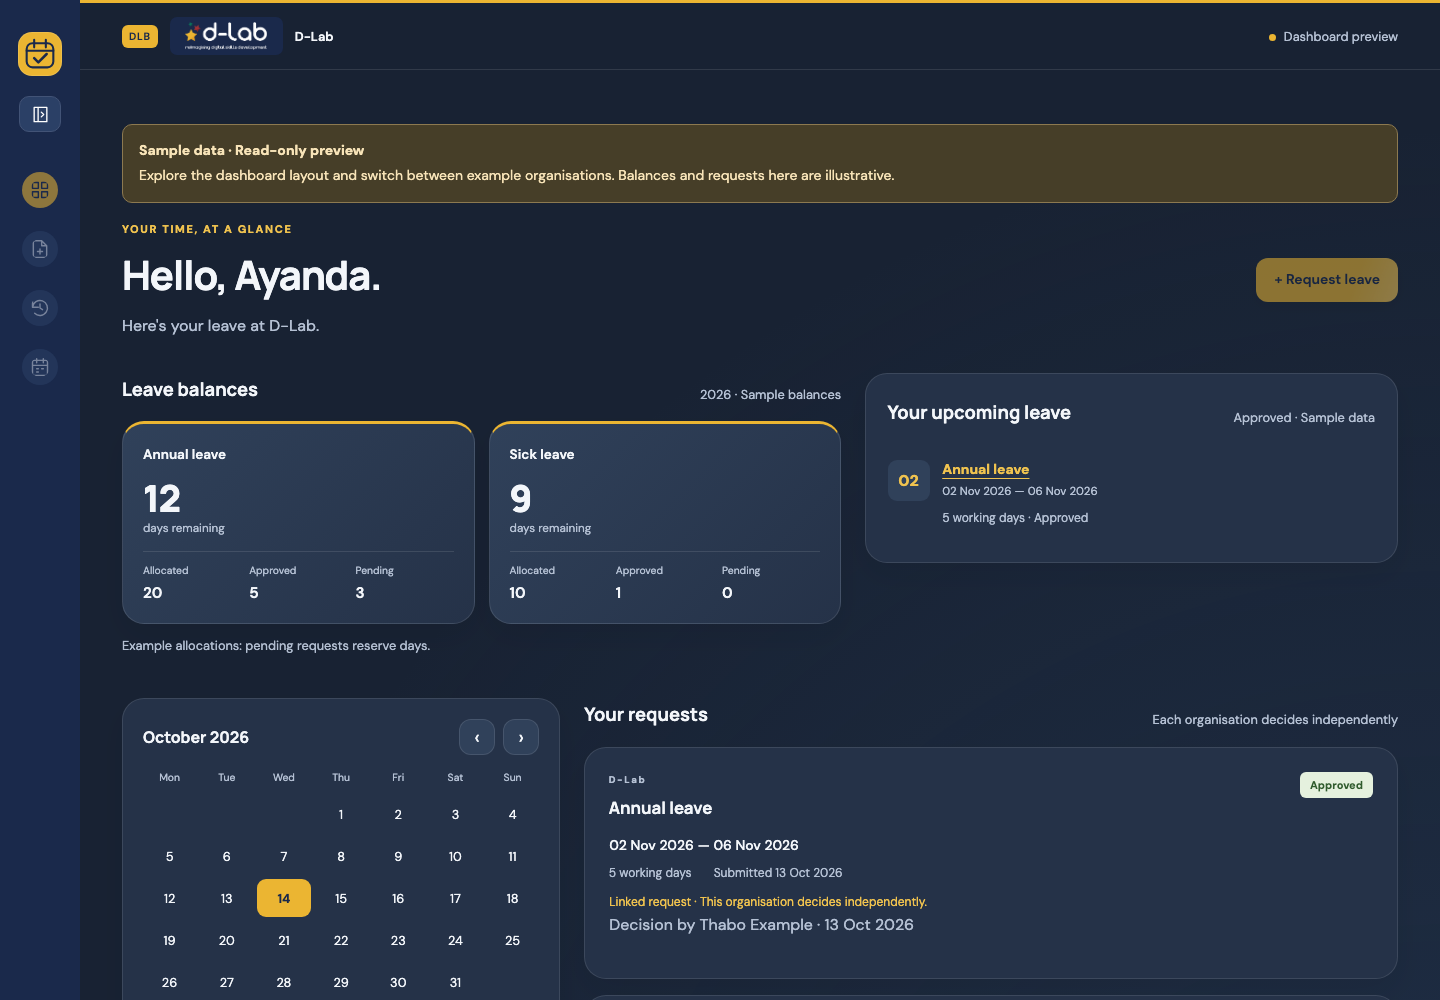
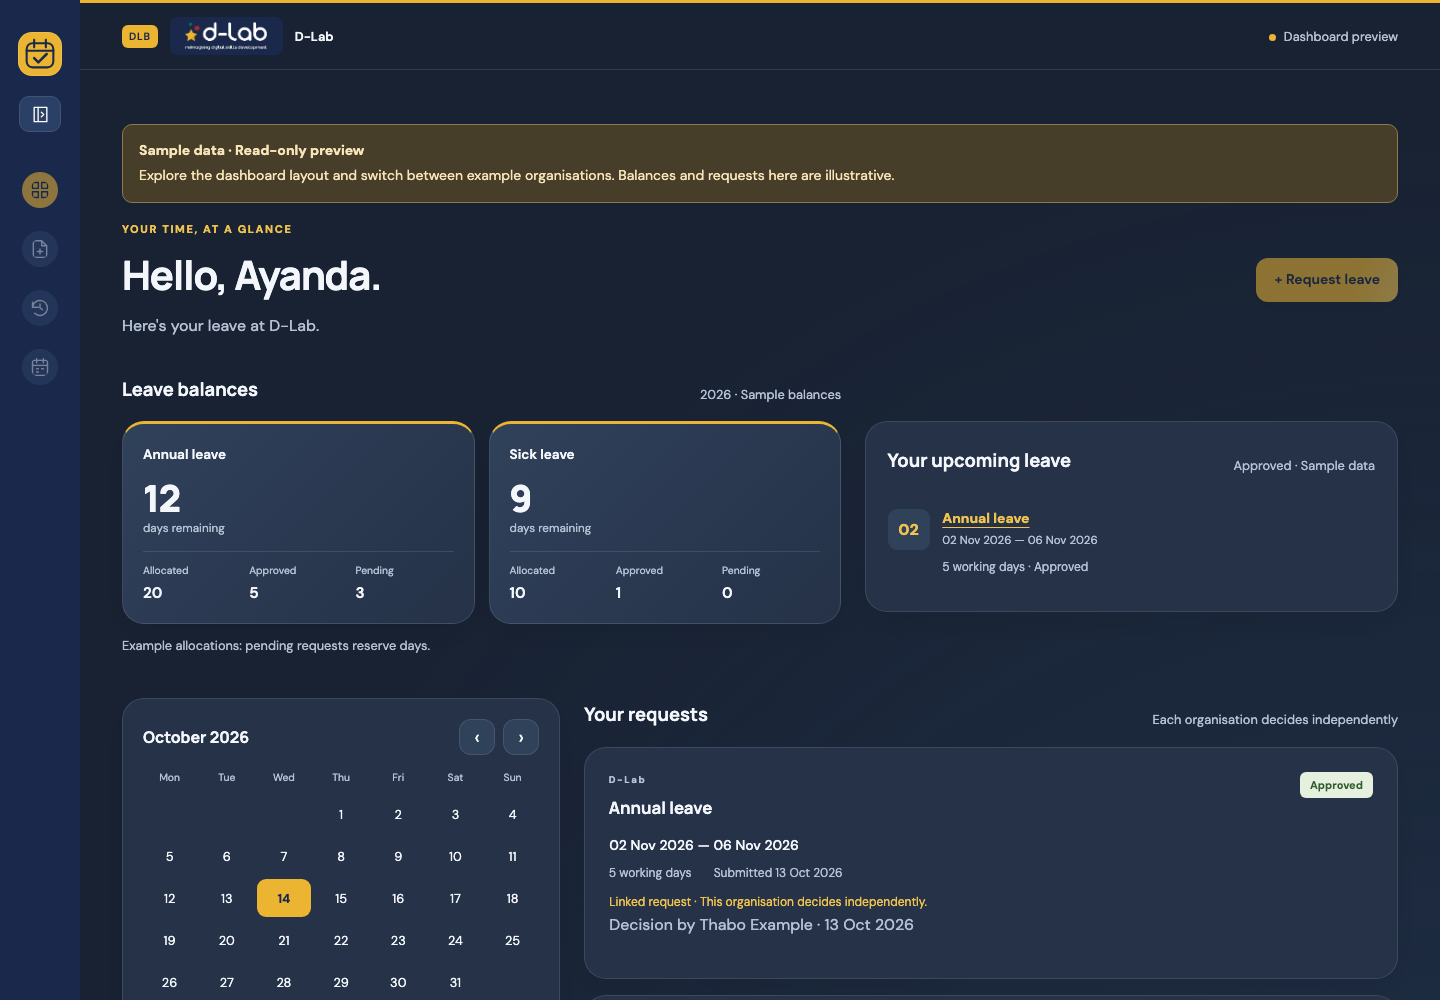
Align upcoming leave with dashboard balance cards

Changed region(s): [[0.625, 0.403, 0.75, 0.589], [0.8438, 0.403, 0.9688, 0.434]]

diff --git a/frontend/src/pages/Dashboard.tsx b/frontend/src/pages/Dashboard.tsx
@@ -46,10 +46,7 @@ export function Dashboard() {
         Here's your leave at {membership.organisationName}.
       </PageHeading>
       <div className="dashboard-summary">
-        <section
-          className="dashboard-balances"
-          aria-labelledby="balance-heading"
-        >
+        <div className="dashboard-summary-heading">
           <div className="section-heading">
             <h2 id="balance-heading">Leave balances</h2>
             <label className="inline-label" htmlFor="balance-year">
@@ -67,6 +64,11 @@ export function Dashboard() {
               />
             </label>
           </div>
+        </div>
+        <section
+          className="dashboard-balances"
+          aria-labelledby="balance-heading"
+        >
           {balances.isPending || types.isPending ? (
             <Loading label="Loading balances" />
           ) : balances.isError || types.isError ? (

diff --git a/frontend/src/dev/DashboardPreview.tsx b/frontend/src/dev/DashboardPreview.tsx
@@ -229,14 +229,16 @@ export default function DashboardPreview({
             Here's your leave at {org.name}.
           </PageHeading>
           <div className="dashboard-summary">
-            <section
-              className="dashboard-balances"
-              aria-labelledby="balance-heading"
-            >
+            <div className="dashboard-summary-heading">
               <div className="section-heading">
                 <h2 id="balance-heading">Leave balances</h2>
                 <span className="caption">2026 · Sample balances</span>
               </div>
+            </div>
+            <section
+              className="dashboard-balances"
+              aria-labelledby="balance-heading"
+            >
               <BalanceCards balances={balances} leaveTypes={types} />
               <p className="caption">
                 Example allocations: pending requests reserve days.

diff --git a/frontend/src/styles.css b/frontend/src/styles.css
@@ -2874,3 +2874,27 @@ textarea[aria-invalid="true"] {
 .app-shell .linked-note {
   color: var(--brand-link);
 }
+
+/* Put the balance heading above the shared card row, so card tops align. */
+.dashboard-summary {
+  row-gap: 0;
+}
+.dashboard-summary-heading {
+  grid-column: 1;
+  grid-row: 1;
+}
+.dashboard-balances {
+  grid-column: 1;
+  grid-row: 2;
+}
+.dashboard-side {
+  grid-column: 2;
+  grid-row: 2;
+}
+@media (max-width: 1100px) {
+  .dashboard-side {
+    grid-column: 1;
+    grid-row: 3;
+    margin-top: 18px;
+  }
+}
